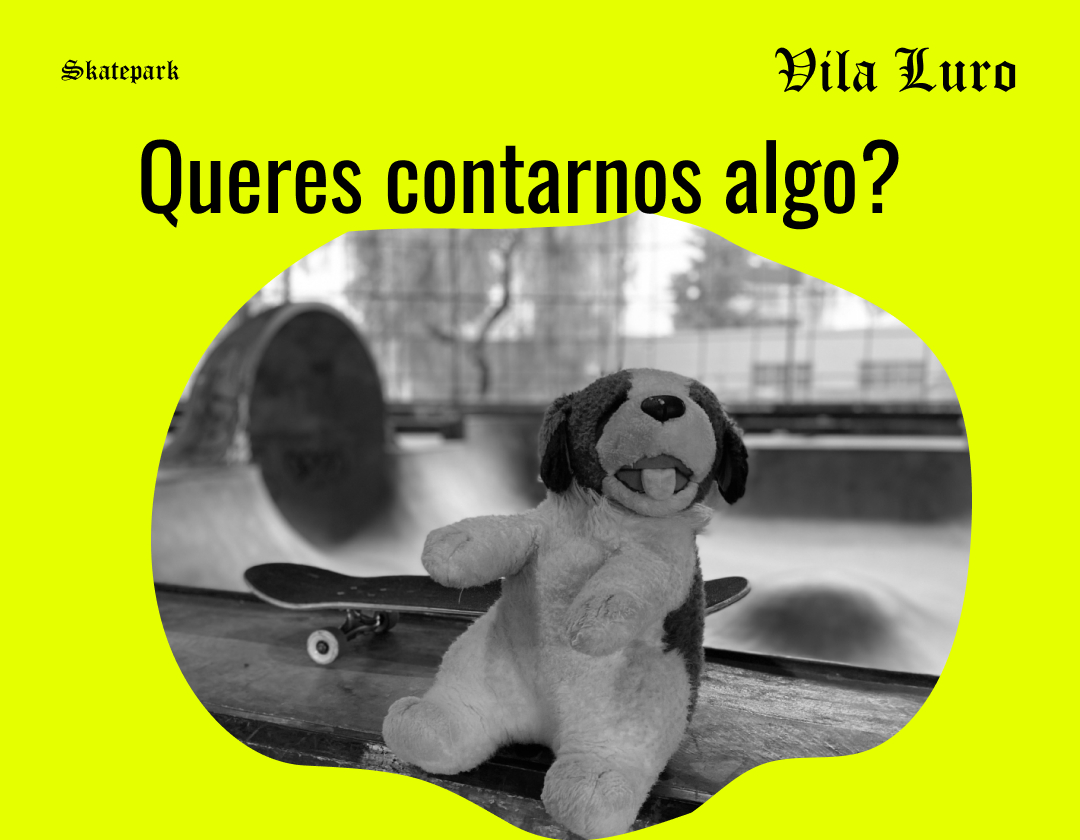
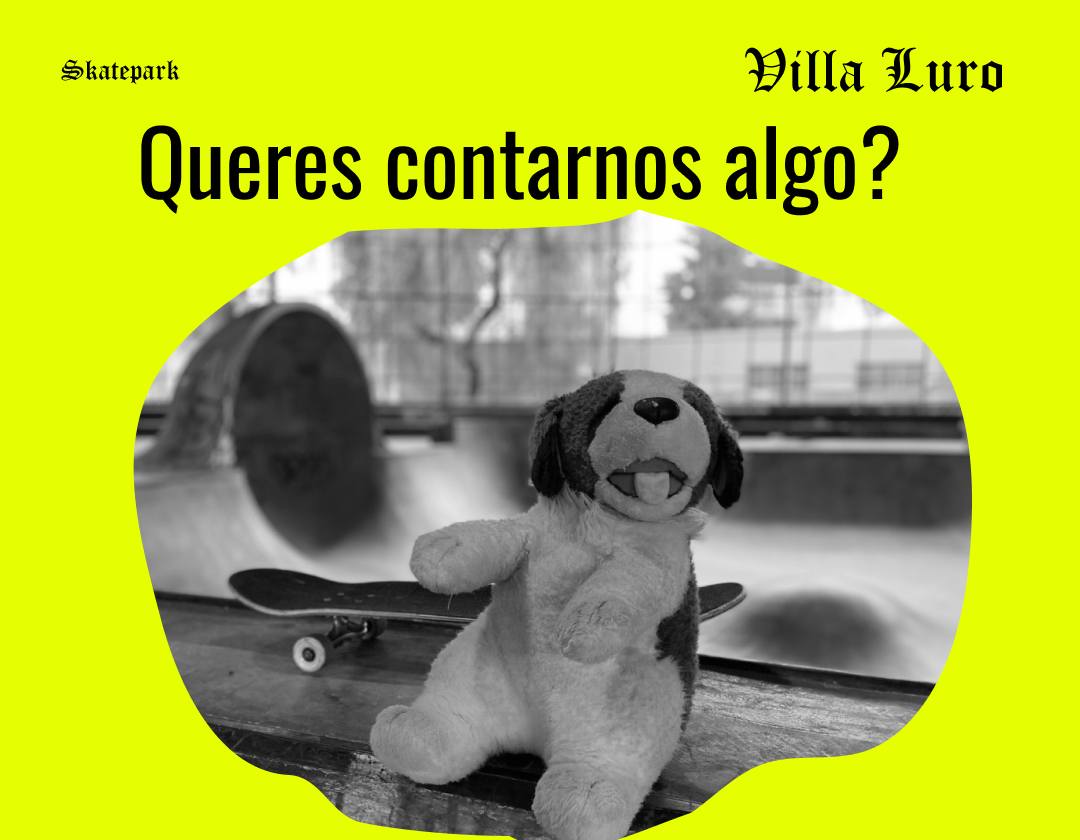
feat: actualizar contenido, imágenes y animaciones del SkatePark

diff --git a/index.html b/index.html
@@ -45,8 +45,8 @@
             </div>
             <div class="hero-content">
                 <span class="tag">Comunidad & Skate</span>
-                <h2>Bienvenidos al SkatePark Villa Luro CABA Bs As</h2>
-                <p>Un espacio para encontrarnos, patinar, aprender y compartir.</p>
+                <h2>Bienvenidos al SkatePark Villa Luro CABA Bs As Arg</h2>
+                <p>Donde el skate nos encuentra, nos enseña y nos une.</p>
                 <div class="hero-quote">
                     <strong>La pista es nuestra. Entre todos la cuidamos.</strong>
                 </div>
@@ -127,7 +127,7 @@
         <section id="donar" class="content-section">
             <span class="section-number">03</span>
             <h2>Esta pista depende de nosotros</h2>
-            <p>Mantener esta pista en buenas condiciones requiere tiempo, esfuerzo y recursos. Las donaciones nos ayudan a comprar elementos de limpieza, materiales y todo lo necesario para mantener el SkatePark limpio, cuidado y disponible para toda la comunidad, los sábados a las 13 hs nos encontramos en una reunión abierta de la comunidad para conversar, escuchar propuestas, organizarnos y participar en voluntariados para mejorar y cuidar el SkatePark están invitados a participar.</p>
+            <p>Mantener esta pista en buenas condiciones requiere <span class="breathing-text">tiempo, esfuerzo y recursos</span>. Las donaciones nos ayudan a mantener el SkatePark. Además de donar, también podés colaborar acercando elementos que necesitamos, como escobas, secadores y otros materiales de limpieza, los sábados a las 13 hs nos encontramos en una reunión abierta de la comunidad para conversar, escuchar propuestas, organizarnos y participar en voluntariados para mejorar y cuidar el SkatePark están invitados a participar.</p>
             <div class="action-card">
                 <h3>Colaborá con el mantenimiento</h3>
                 <p class="alias-info">Alias: <strong>[PENDIENTE.ALIAS]</strong></p>
@@ -184,9 +184,9 @@
 
     <!-- Footer institucional -->
     <footer id="contacto" class="site-footer">
-        <h3>Nos vemos en la pista.</h3>
-        <p>Patiná. Compartí. Respetá. Cuidá.</p>
-        <p class="footer-copy">© 2026 SkatePark Villa Luro. La pista es de todos.</p>
+        <h3>Gracias por llegar hasta acá, nos vemos en la pista.</h3>
+        <p>Te invitamos a guardar el celular y disfrutar del instante.</p>
+        <p class="footer-copy">© 2026 SkatePark Villa Luro</p>
     </footer>
 
     <script src="script.js"></script>

diff --git a/style.css b/style.css
@@ -437,6 +437,7 @@ p {
 }
 
 .whatsapp-float a {
+    position: relative;
     display: flex;
     align-items: center;
     justify-content: center;
@@ -448,10 +449,74 @@ p {
     text-decoration: none;
     box-shadow: 0 4px 12px rgba(0,0,0,0.4);
     transition: transform 0.2s;
+    animation: editorialGlitch 9s steps(1, start) infinite;
+}
+
+.whatsapp-float a::before {
+    content: '';
+    position: absolute;
+    top: 0;
+    left: 0;
+    width: 100%;
+    height: 100%;
+    border-radius: 50%;
+    background-color: var(--accent-color);
+    box-shadow: -2px 0 0 #fff, 2px 0 0 #000;
+    z-index: -1;
+    opacity: 0;
+    pointer-events: none;
+    animation: glitchShadow 9s steps(1, start) infinite;
 }
 
 .whatsapp-float a:hover {
     transform: scale(1.05);
+    animation-play-state: paused;
+}
+
+.whatsapp-float a:hover::before {
+    animation-play-state: paused;
+}
+
+@keyframes editorialGlitch {
+    0%, 88%, 100% {
+        transform: translate(0, 0);
+    }
+    89% {
+        transform: translate(-2px, 1px);
+    }
+    90% {
+        transform: translate(3px, -1px);
+    }
+    91% {
+        transform: translate(-1px, 2px);
+    }
+    92% {
+        transform: translate(1px, -2px);
+    }
+    93% {
+        transform: translate(0, 0);
+    }
+}
+
+@keyframes glitchShadow {
+    0%, 88%, 100% {
+        opacity: 0;
+        transform: translate(0, 0);
+    }
+    89%, 92% {
+        opacity: 0.7;
+        transform: translate(3px, -2px);
+    }
+    93% {
+        opacity: 0;
+    }
+}
+
+@media (prefers-reduced-motion: reduce) {
+    .whatsapp-float a,
+    .whatsapp-float a::before {
+        animation: none;
+    }
 }
 
 /* Footer */
@@ -544,5 +609,30 @@ p {
 @media (min-width: 1024px) {
     .principles-grid {
         grid-template-columns: repeat(4, 1fr);
+    }
+}
+
+/* Animación respiración sección 03 */
+@keyframes breathe {
+    0%, 100% {
+        transform: scale(1);
+    }
+    15% {
+        transform: scale(1.04);
+    }
+    30% {
+        transform: scale(1);
+    }
+}
+
+.breathing-text {
+    display: inline-block;
+    animation: breathe 8s ease-in-out infinite;
+    transform-origin: center;
+}
+
+@media (prefers-reduced-motion: reduce) {
+    .breathing-text {
+        animation: none;
     }
 }
